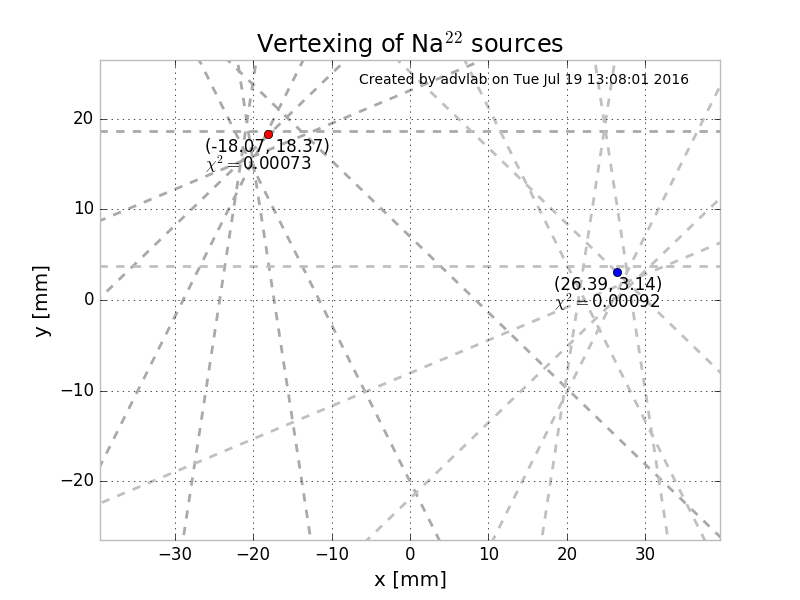
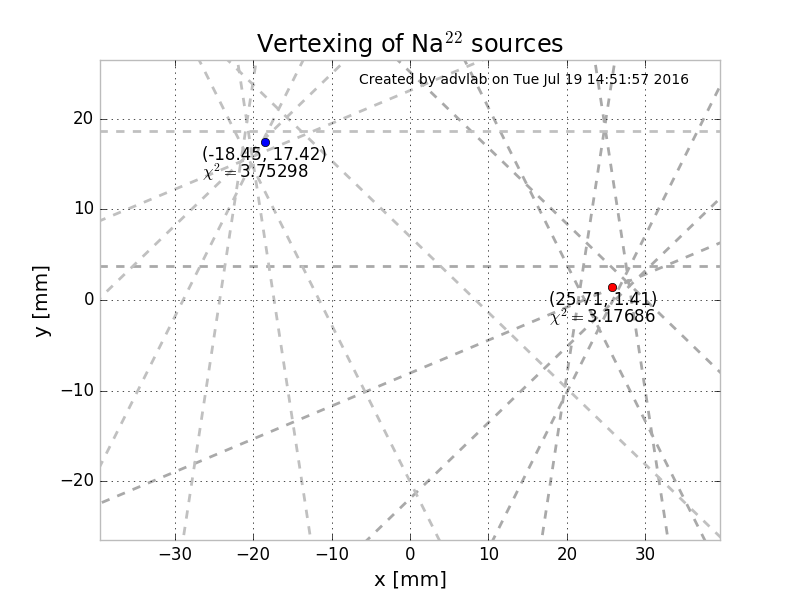
computed the right sig_xx and sig_uu

Changed region(s): [[0.6875, 0.45, 0.8438, 0.54], [0.25, 0.21, 0.4062, 0.3], [0.75, 0.12, 0.8125, 0.15]]

diff --git a/utils/gBox.py b/utils/gBox.py
@@ -54,11 +54,12 @@ def rotate_line(line, theta):
          np.sin(-theta)*line[1][0]+np.cos(-theta)*line[1][1])
     return new_line
 
-def get_combinations(th_list, y_list, num_scan_angles):
+def get_combinations(th_list, y_list, sigy_list, num_scan_angles):
     """returns a list with all the possible combinations of y_list[i] 
        elements in class num_scan_angles
     """
     y_lists_list = []
+    sigy_lists_list = []
     th_lists_list = []
     num_peaks = len(th_list[0])
     print 'num peaks: ',num_peaks
@@ -66,15 +67,17 @@ def get_combinations(th_list, y_list, num_scan_angles):
     for n in range(0,N):
         BitN = list(str("{0:b}".format(n)))
         BitN = [0]*(num_scan_angles-len(BitN))+BitN
-        list1, list2 = [], []
+        list1, list2, list3 = [], [], []
         for i, l in enumerate(y_list):
             list1.append(l[int(BitN[i])])
             list2.append(th_list[i][int(BitN[i])])
+            list3.append(sigy_list[i][int(BitN[i])])
         y_lists_list.append(list1)
+        sigy_lists_list.append(list3)
         th_lists_list.append(list2)
-    return y_lists_list, th_lists_list
+    return th_lists_list, y_lists_list, sigy_lists_list
 
-def build_states(th_list, y_list, return_lines=False):
+def build_states(th_list, y_list, sigy_list, return_lines=False):
     """
     """
     a, b = 10.23, 128.
@@ -82,19 +85,17 @@ def build_states(th_list, y_list, return_lines=False):
     for i, th in enumerate(th_list):
         line = mkline(y_list[i], th)
         m, q = get_m_q(line)
-        x = np.arange(-10,10)
-        y = x*m + q
         yref = 26.5
         if m != 0:
             uk = 1./m
             xk = uk*(yref - q)
-            sig_uu = np.tan(np.pi/2-np.arctan(a/b))
-            sig_xx = 1./np.cos(np.radians(th))
+            sig_uu = 2*a/b
+            sig_xx = sigy_list[i]#1./np.cos(np.radians(th))
         else:
             uk = 1./1e-10
             xk = uk*(yref - q)
-            sig_uu = 2*uk#np.tan(np.pi/2-2*np.arctan(a/b))
-            sig_xx = 1.*xk#/np.cos(np.radians(th))
+            sig_uu = uk*2*a/b
+            sig_xx = xk*sigy_list[i]#/np.cos(np.radians(th))
         state_list.append((xk, uk))
         cov_list.append(np.array([[sig_xx*sig_xx, 0.], [0., sig_uu*sig_uu]]))
         lines.append(line)

diff --git a/bin/mkkalmanfilter.py b/bin/mkkalmanfilter.py
@@ -78,9 +78,13 @@ def mkkalmanfilter(**kwargs):
         _y, _coinc = build_rate_hist('th%i'%th, infiles[_index], \
                                      yref_list[_index])
     from advlab.utils.gAnalysisUtils import find_peaks_fit
-    th_list, y_list = find_peaks_fit(os.path.join(ADVLAB_OUT,'y_scan.root'))
+    th_list, y_list, sigy_list = find_peaks_fit(os.path.join(ADVLAB_OUT,\
+                                                             'y_scan.root'))
     from advlab.utils.gBox import get_combinations
-    y_comb_list, th_comb_list = get_combinations(th_list, y_list, len(all_th))
+    th_comb_list, y_comb_list, sigy_comb_list = get_combinations(th_list, \
+                                                                 y_list, \
+                                                                 sigy_list,\
+                                                                 len(all_th))
     logger.info('Number of Combinations: %i'%len(y_comb_list))
     from advlab.utils.gBox import build_states
     from advlab.utils.gKalmanFilter import gExtendedKalmanFilter
@@ -92,7 +96,8 @@ def mkkalmanfilter(**kwargs):
     plt.xlabel('x [mm]')
     plt.ylabel('y [mm]')
     for i, yl in enumerate(y_comb_list):
-        measure_list, cov_list, lines = build_states(th_comb_list[i], yl, return_lines=True)
+        measure_list, cov_list, lines = build_states(th_comb_list[i], \
+                                        yl, sigy_comb_list[i], return_lines=True)
         exp_point = np.array([[0.0], [0.0], [0.]])
         X0 = np.array([[0.], [0.]])
         KF = gExtendedKalmanFilter(measure_list, exp_point, cov_list, X0)
@@ -124,6 +129,7 @@ def mkkalmanfilter(**kwargs):
                     xytext=(vertex_list[ind][0]-8,vertex_list[ind][1]-4))
         vertex_list.pop(ind)
         chi2_list.pop(ind)
+        lines_list.pop(ind)
     _index = np.where(np.array(chi2_list) == min(chi2_list))[0]
     for ind in _index:
         logger.info('2nd vertex: (%.2f, %.2f)'%(vertex_list[ind][0],vertex_list[ind][1]))

diff --git a/utils/gAnalysisUtils.py b/utils/gAnalysisUtils.py
@@ -40,6 +40,7 @@ def find_peaks_fit(file_name, isfit=True):
     """
     file1 = ROOT.TFile(file_name)
     y_list  = []
+    sigy_list = []
     th_list = []
     for key in file1.GetListOfKeys():
         th_list.append((int(key.GetName().replace("th","")), \
@@ -79,7 +80,12 @@ def find_peaks_fit(file_name, isfit=True):
         ftot.SetParameters(par)
         h.Fit(ftot)
         y_list.append((ftot.GetParameter(1), ftot.GetParameter(4)))
-    return th_list, y_list
+        sigy_list.append((ftot.GetParError(1)/\
+                          np.sqrt(ftot.Eval(ftot.GetParameter(1))), \
+                          ftot.GetParError(4)/\
+                          np.sqrt(ftot.Eval(ftot.GetParameter(4)))))
+        
+    return th_list, y_list, sigy_list
 
 def build_spectrum(name, _e, tot_num_en_ch):
     """Returns a root THF1 with the energy spectrum of the gamma 
